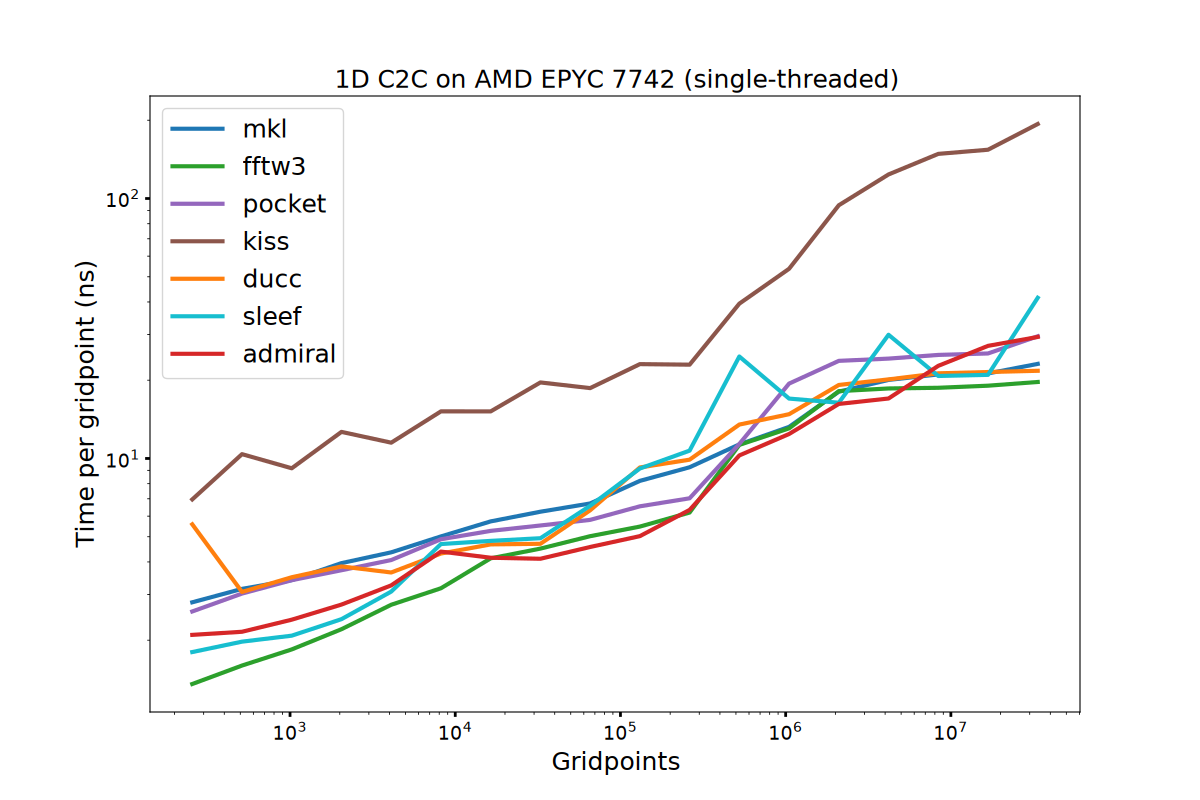
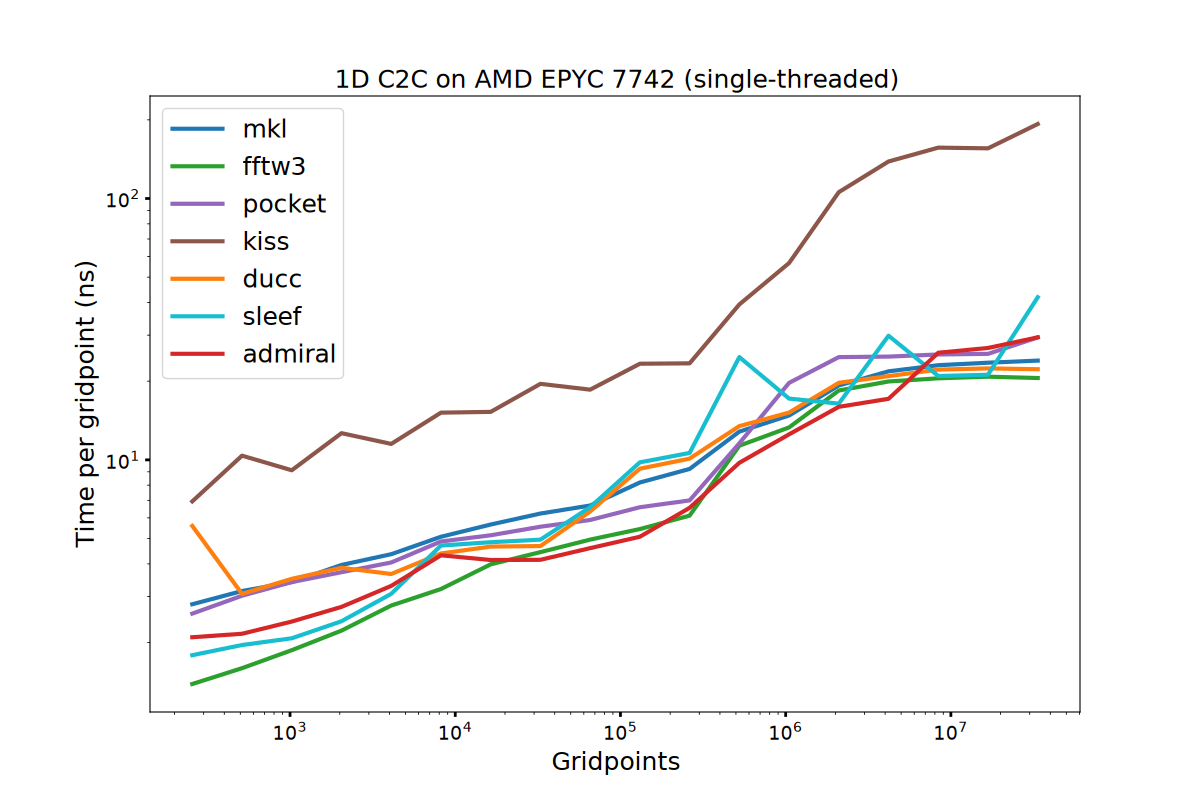
bench: bump admiral to 683a697 (granule AoS leaf family), refresh standings charts
Granule family + unit-scale elision (fe90be3 + 683a697). The f64/pow2 sweep
contains no granule-admitted cell (16 f64 is a measured loss and stays out of
admission), verified flat at (2,16) on all 3 nodes; the elision reads as small
N-D down-moves. genoa 2^19 stay-fixed re-confirmed by same-node pinned probe6
(0.995 of e61). rome (2,1024) standing unbisected regression drawn high (1.193
vs e61), not new.

Assisted-by: Claude

diff --git a/README.md b/README.md
@@ -3,7 +3,7 @@ FFTW3 run in FFTW_MEASURE mode. FFTW_PATIENT is death, and I wanted to give it a
 
 | MKL      | FFTW   | KISS             | Pocket   | DUCC              | Sleef         | Admiral |
 |----------|--------|------------------|----------|-------------------|---------------|---------|
-| 2026.0.0 | 3.3.11 | v131-101-ge5e3fac| 81d171a6 | 0.41.1-72-g9919ab6| 3.9.0-41-g7623d6c | 7739611 |
+| 2026.0.0 | 3.3.11 | v131-101-ge5e3fac| 81d171a6 | 0.41.1-72-g9919ab6| 3.9.0-41-g7623d6c | 683a697 |
 
 FFTW3, MKL and gcc come from the cluster's Lmod modules (`gcc/14.3.0 fftw/3.3.11 intel-oneapi-mkl/2026.0.0`); the module's FFTW3 carries the
 OpenMP threading library, which `fftw3_omp_bench` links. Machines: Intel Xeon Platinum 8362 (icelake), AMD EPYC 7742 (rome), AMD EPYC 9474F (genoa).
